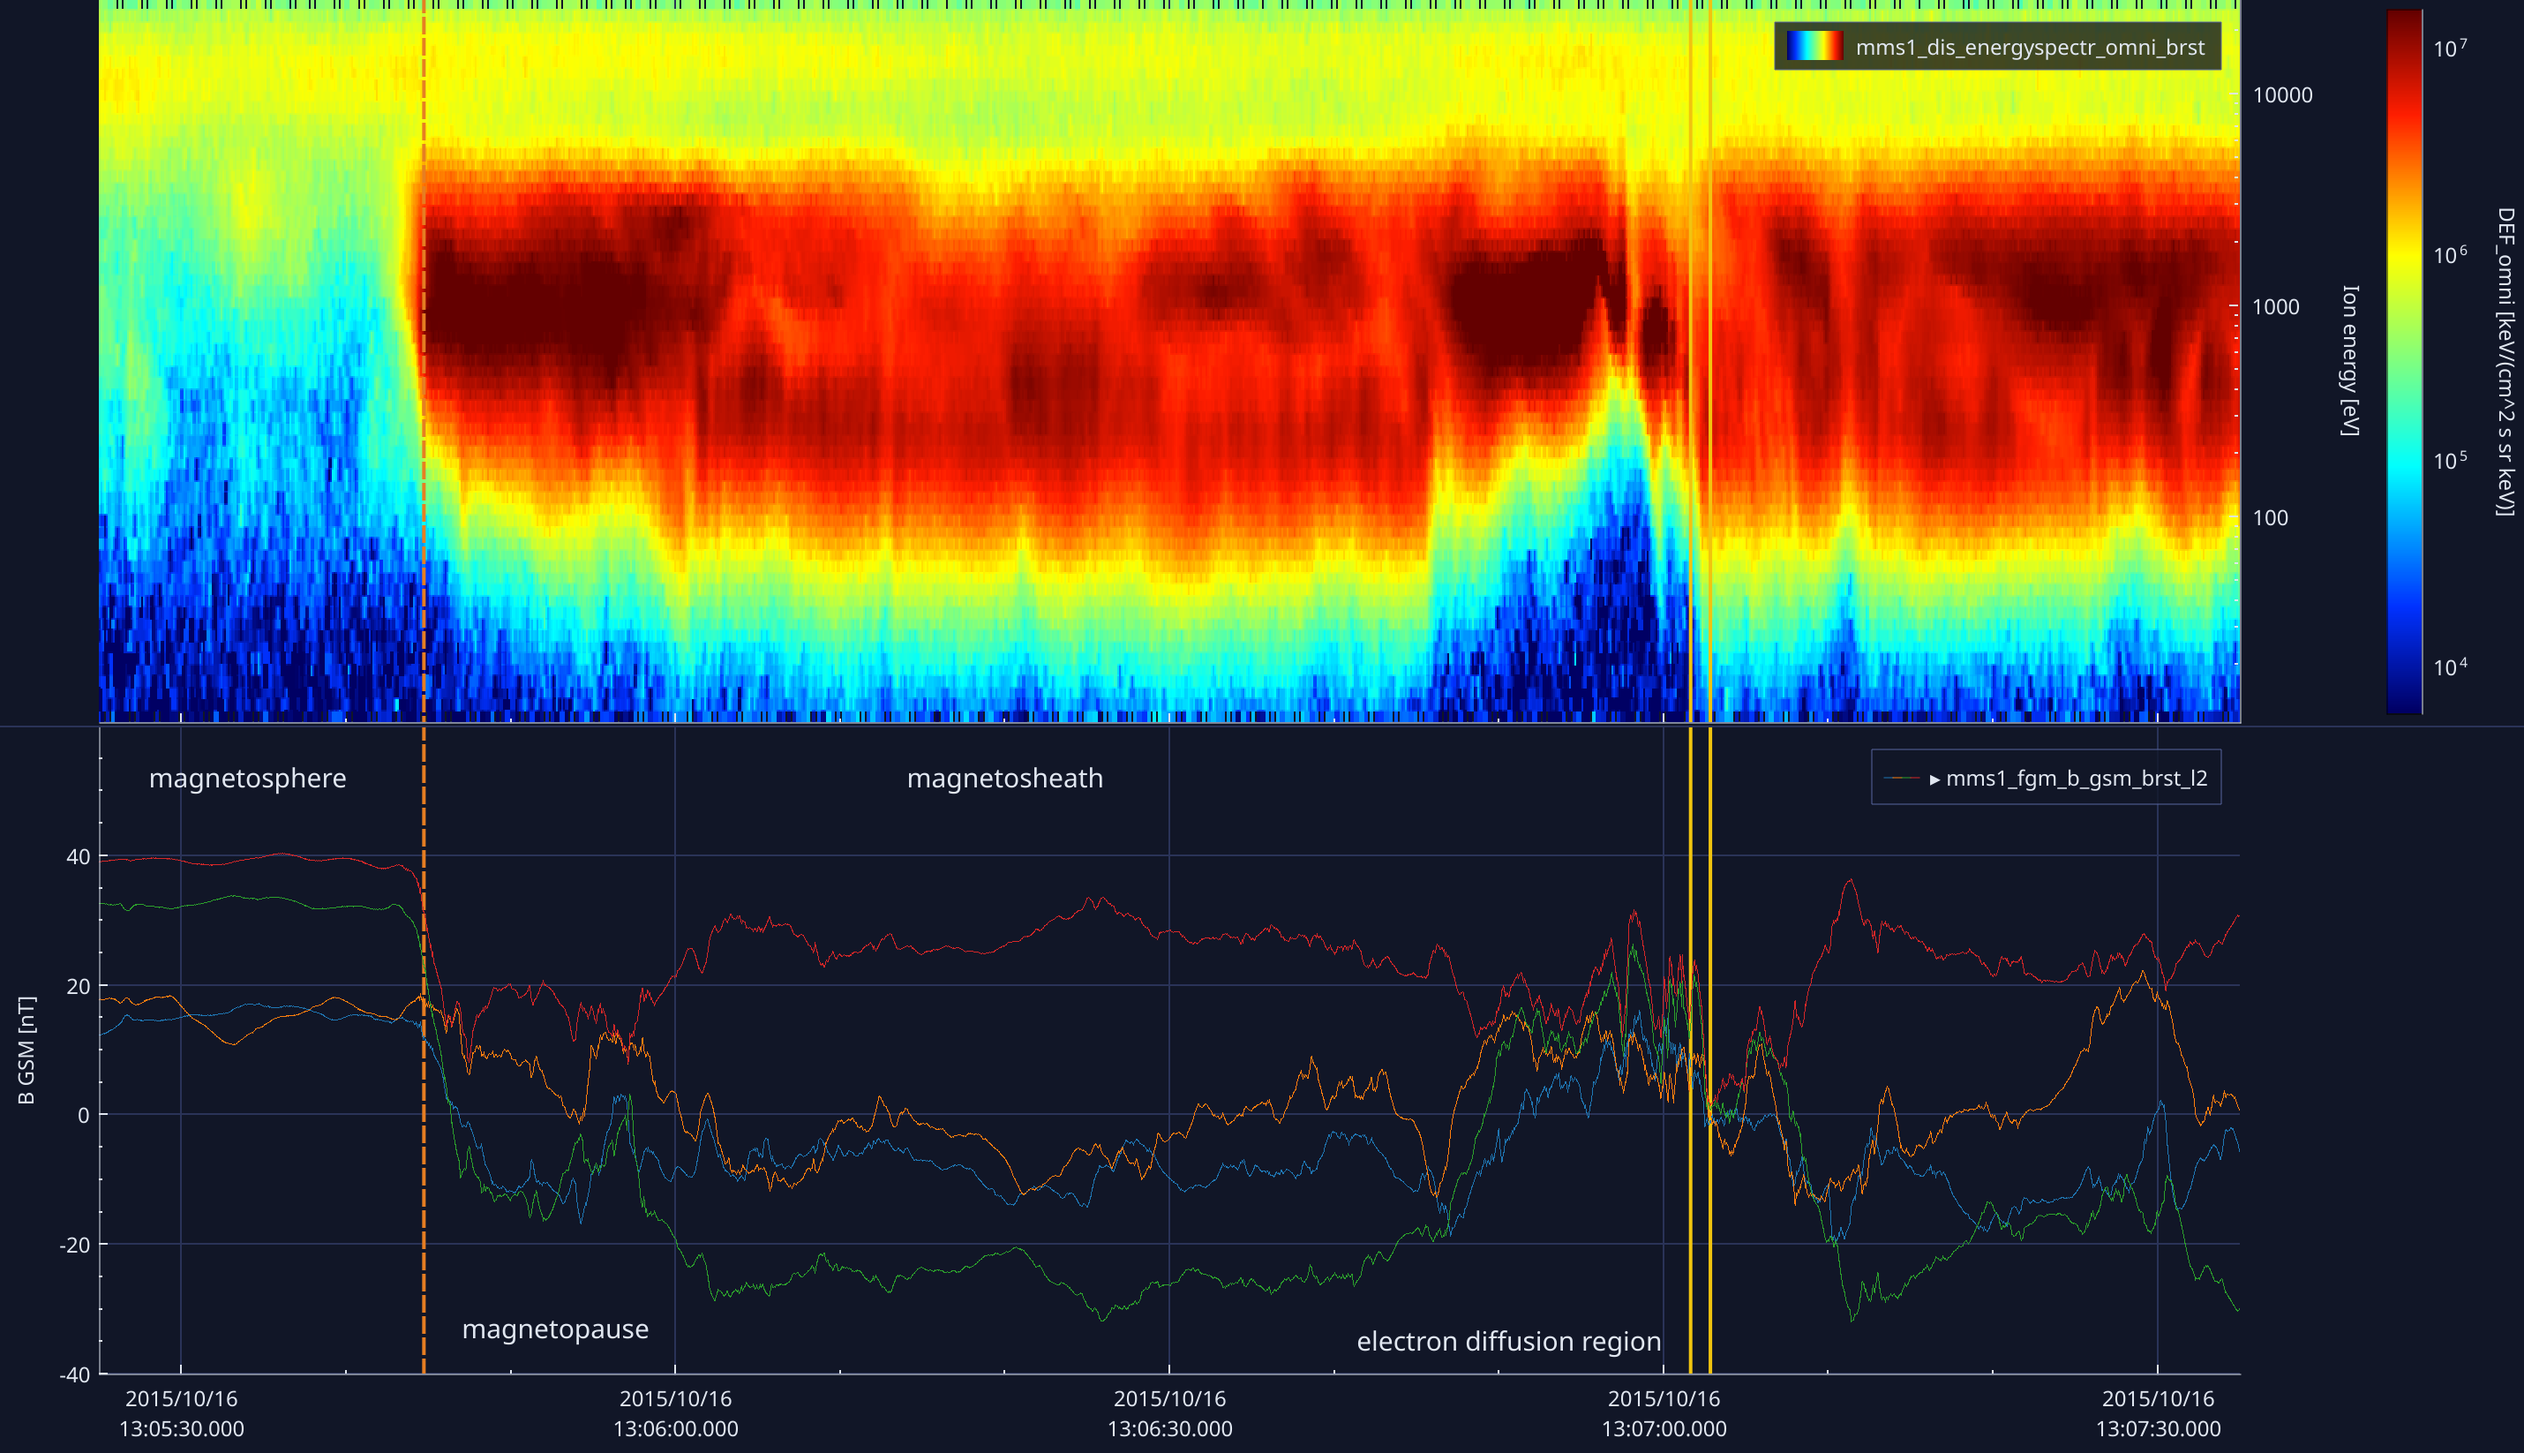
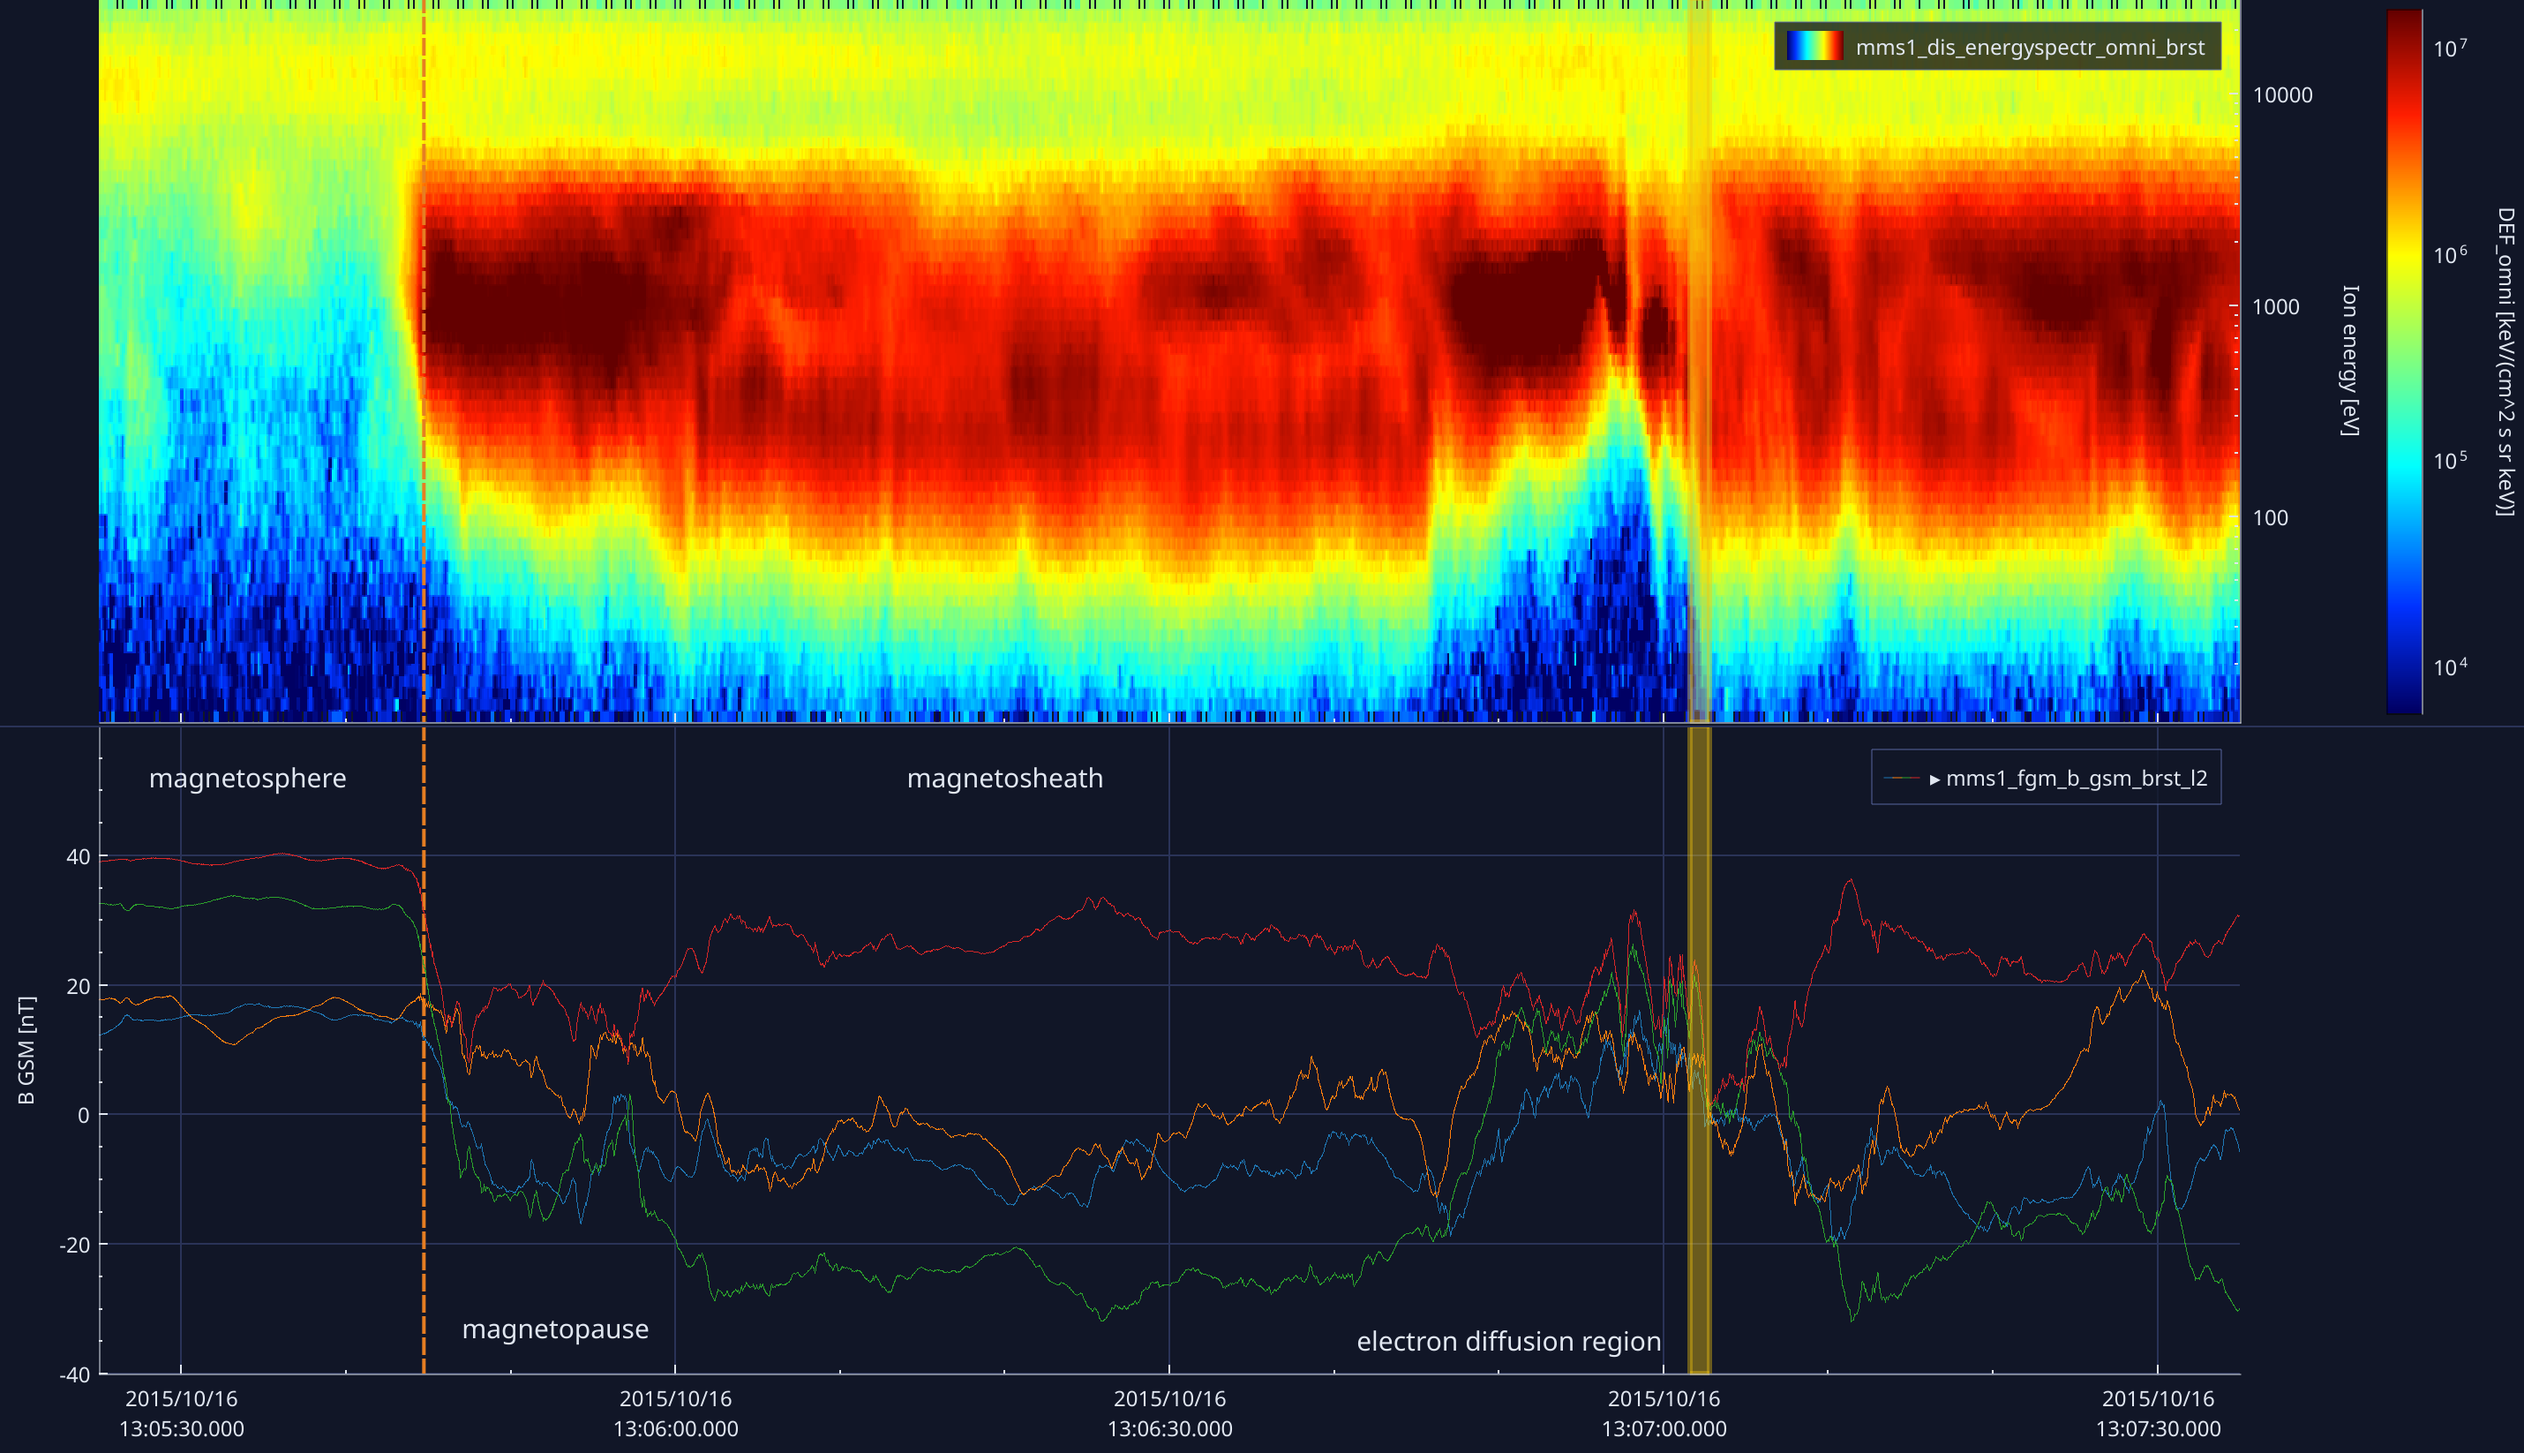
gallery: 09 shades the EDR with RectangularSpan; 06 legend names the layer; 03 drops a workaround
RectangularSpan takes opposite corners (x1, y1, x2, y2); the earlier call passed
(x1, x2, y1, y2) and drew nothing. SciQLop no longer draws the empty-panel overlay
over a sub-panel, so hide_empty_panel_overlays is gone.

Changed region(s): [[0.6535, 0.1549, 0.6846, 0.9605], [0.6535, 0.0, 0.6846, 0.031]]

diff --git a/scripts/shots/gallery_09_10_primitives_themes.py b/scripts/shots/gallery_09_10_primitives_themes.py
@@ -12,10 +12,10 @@ from mms import BURCH_EDR, DIS_BRST, FGM_BRST_GSM  # noqa: E402
 from shotlib import main_window, pump, save_panel, set_labels, settle  # noqa: E402
 
 from SciQLop.user_api import themes  # noqa: E402
-from SciQLop.user_api.plot import Text, VerticalLine, create_plot_panel  # noqa: E402
+from SciQLop.user_api.plot import RectangularSpan, Text, VerticalLine, create_plot_panel  # noqa: E402
 from PySide6.QtCore import Qt  # noqa: E402
 
-ORANGE, YELLOW = "#e67e22", "#f1c40f"
+ORANGE, EDR_FILL = "#e67e22", "#66f1c40f"
 SHEATH_DENSITY = 5.0  # cm^-3
 LABEL_Y = 52.0  # nT, in the headroom above the field traces
 
@@ -48,8 +48,8 @@ b_plot.set_y_range(-40.0, 60.0)
 annotations = [
     *(VerticalLine(p, T_MP, color=ORANGE, line_width=2.0, line_style=Qt.PenStyle.DashLine)
       for p in (spectrum, b_plot)),
-    # A RectangularSpan would shade the EDR, but it doesn't draw yet (reported 2026-10-11).
-    *(VerticalLine(p, t, color=YELLOW, line_width=2.0) for p in (spectrum, b_plot) for t in EDR),
+    RectangularSpan(spectrum, x1=EDR[0], y1=0.0, x2=EDR[1], y2=1.0, color=EDR_FILL, read_only=True),
+    RectangularSpan(b_plot, x1=EDR[0], y1=-40.0, x2=EDR[1], y2=60.0, color=EDR_FILL, read_only=True),
     Text(b_plot, "magnetosphere", x=utc(13, 5, 34), y=LABEL_Y, font_size=11),
     Text(b_plot, "magnetopause", x=T_MP + 8, y=-33.0, font_size=11),
     Text(b_plot, "magnetosheath", x=utc(13, 6, 20), y=LABEL_Y, font_size=11),

diff --git a/scripts/shots/gallery_03_dsp_background.py b/scripts/shots/gallery_03_dsp_background.py
@@ -4,7 +4,7 @@ import sys
 
 sys.path.insert(0, os.path.dirname(__file__))
 import callisto  # noqa: E402
-from shotlib import hide_empty_panel_overlays, main_window, pump, save_panel  # noqa: E402
+from shotlib import main_window, pump, save_panel  # noqa: E402
 
 from SciQLop.user_api import dsp  # noqa: E402
 from SciQLop.user_api.plot import Orientation, TimeRange, create_plot_panel  # noqa: E402
@@ -22,5 +22,4 @@ for data, name, unit in [(z, "raw dynamic spectrum", "Intensity [digits]"),
     plot.set_axis_label("z", unit)
 side_by_side.time_range = TimeRange(callisto.START, callisto.STOP)
 pump(3)
-hide_empty_panel_overlays()  # drawn over the sub-panel (reported 2026-10-11)
 save_panel(panel, "03-dsp-background-subtract-type-ii-burst.png")

diff --git a/scripts/shots/shotlib.py b/scripts/shots/shotlib.py
@@ -112,13 +112,6 @@ def save_panel(panel, name: str) -> Path:
     return path
 
 
-def hide_empty_panel_overlays() -> None:
-    from SciQLop.components.plotting.ui.product_search_overlay import ProductSearchOverlay
-    for overlay in get_main_window().findChildren(ProductSearchOverlay):
-        overlay.hide()
-    pump(0.3)
-
-
 def select_in_inspector(text: str) -> None:
     """Select the Properties tree row showing `text`, as a click on it would."""
     from PySide6.QtCore import QItemSelectionModel

diff --git a/content/gallery/SOURCES.md b/content/gallery/SOURCES.md
@@ -16,7 +16,7 @@ cannot produce them; the reason is given.
 | `06-annotation-layer-detector.png` | Data-aware annotation layer `detectors/magnetosheath`: blue spans = N_i > threshold, orange markers = threshold crossings, red line = the threshold knob itself. | 2015-10-16 13:05:25–13:07:35 | as shot 01 | `@register_layer`, `panel.add_layer` — `gallery_06_annotation_layer.py`. |
 | `07-knobs-parameterized-virtual-product.png` | Full window, Properties dock open. Inspector shows the parameterised virtual product `demo/Bmag_smoothed` with its **Adjustable inputs** section: `Smooth window [samples]` and `Threshold [nT]`, both labelled. The red line on the bottom plot is the draggable threshold knob (`widget="hline"`), moved from 25 to 26.3 nT. Top plot is raw FGM burst B GSM. Reshot 2026-09-14. The Properties dock is an auto-hiding pane and overlays the plot while open. | 2015-10-16 13:05:25–13:07:35 | `speasy//cda//MMS//MMS1//FGM//MMS1_FGM_BRST_L2//mms1_fgm_b_gsm_brst_l2` + virtual `demo/Bmag_smoothed` (boxcar-smoothed \|B\|) | `create_virtual_product` + `Annotated[..., Knob(...)]`, `widget="hline"` knob rendered by SciQLop — `gallery_07_knobs.py`; Smooth window 128. |
 | `08-catalog-overlays-multi-plot.png` | Two colour-coded catalogs over three plots. MMS1 sits in the magnetosheath (N_i ≈ 20–40 cm⁻³, cold ions, turbulent B) until ~13:40, then enters the magnetosphere. Events were **derived from the data**, not hand-drawn. | 2015-10-16 10:00–16:00 | FPI-DIS + FGM survey L2 | `catalogs.save`, `add_catalog_overlay(override_color=...)` — `gallery_08_catalog_overlays.py`. |
-| `09-graphic-primitives-annotated-crossing.png` | The same crossing, marked: magnetopause (dashed, first sample with N_i > 5 cm⁻³) and the electron diffusion region (13:07:01.6–02.8). Region labels in the theme's text colour. | 2015-10-16 13:05:25–13:07:35 | as shot 01 | `VerticalLine`, `Text` — `gallery_09_10_primitives_themes.py`; `RectangularSpan` would shade the EDR but doesn't draw yet. |
+| `09-graphic-primitives-annotated-crossing.png` | The same crossing, marked: magnetopause (dashed, first sample with N_i > 5 cm⁻³) and the electron diffusion region shaded (13:07:01.6–02.8). Region labels in the theme's text colour. | 2015-10-16 13:05:25–13:07:35 | as shot 01 | `VerticalLine`, `RectangularSpan`, `Text` — `gallery_09_10_primitives_themes.py`. |
 | `10-theme-{light,dark,neutral,space}.png` | Identical panel in all four palettes — compose as a 2×2. | as shot 09 | as shot 09 | `themes.apply_theme` — `gallery_09_10_primitives_themes.py`. |
 | `11-ai-assistant-dock.png` | Agents dock (OpenCode backend) on the left, the request visible at the top of the chat, then the agent's plan and its product-tree lookups; the resulting panel on the right. Reshot 2026-09-14 by hand. | 2015-10-16 13:05:25–13:07:35 | FGM burst B GSM, FPI-DIS burst N_i, V_i GSE, omni ion energy spectrogram | AI assistant dock plotting from a one-sentence request — *(2026-09)* kept: needs a live agent conversation. |
 | `12-guided-tour-coach-mark.png` | First step of the "getting started" tour ("Welcome to SciQLop") over the welcome page. | — | — | Guided tour coach mark — *(2026-09)* unused. |

diff --git a/content/Gallery.md b/content/Gallery.md
@@ -67,7 +67,7 @@ MMS1 sits in the magnetosheath until about 13:40, then enters the magnetosphere.
 
 ![[09-graphic-primitives-annotated-crossing.png]]
 
-Lines and text from the graphic-primitives API mark the magnetopause crossing and the electron
+A line, a shaded span and text from the graphic-primitives API mark the magnetopause crossing and the electron
 diffusion region found by Burch et al. (2016). The magnetopause time is read from the ion density,
 not placed by hand.
 
